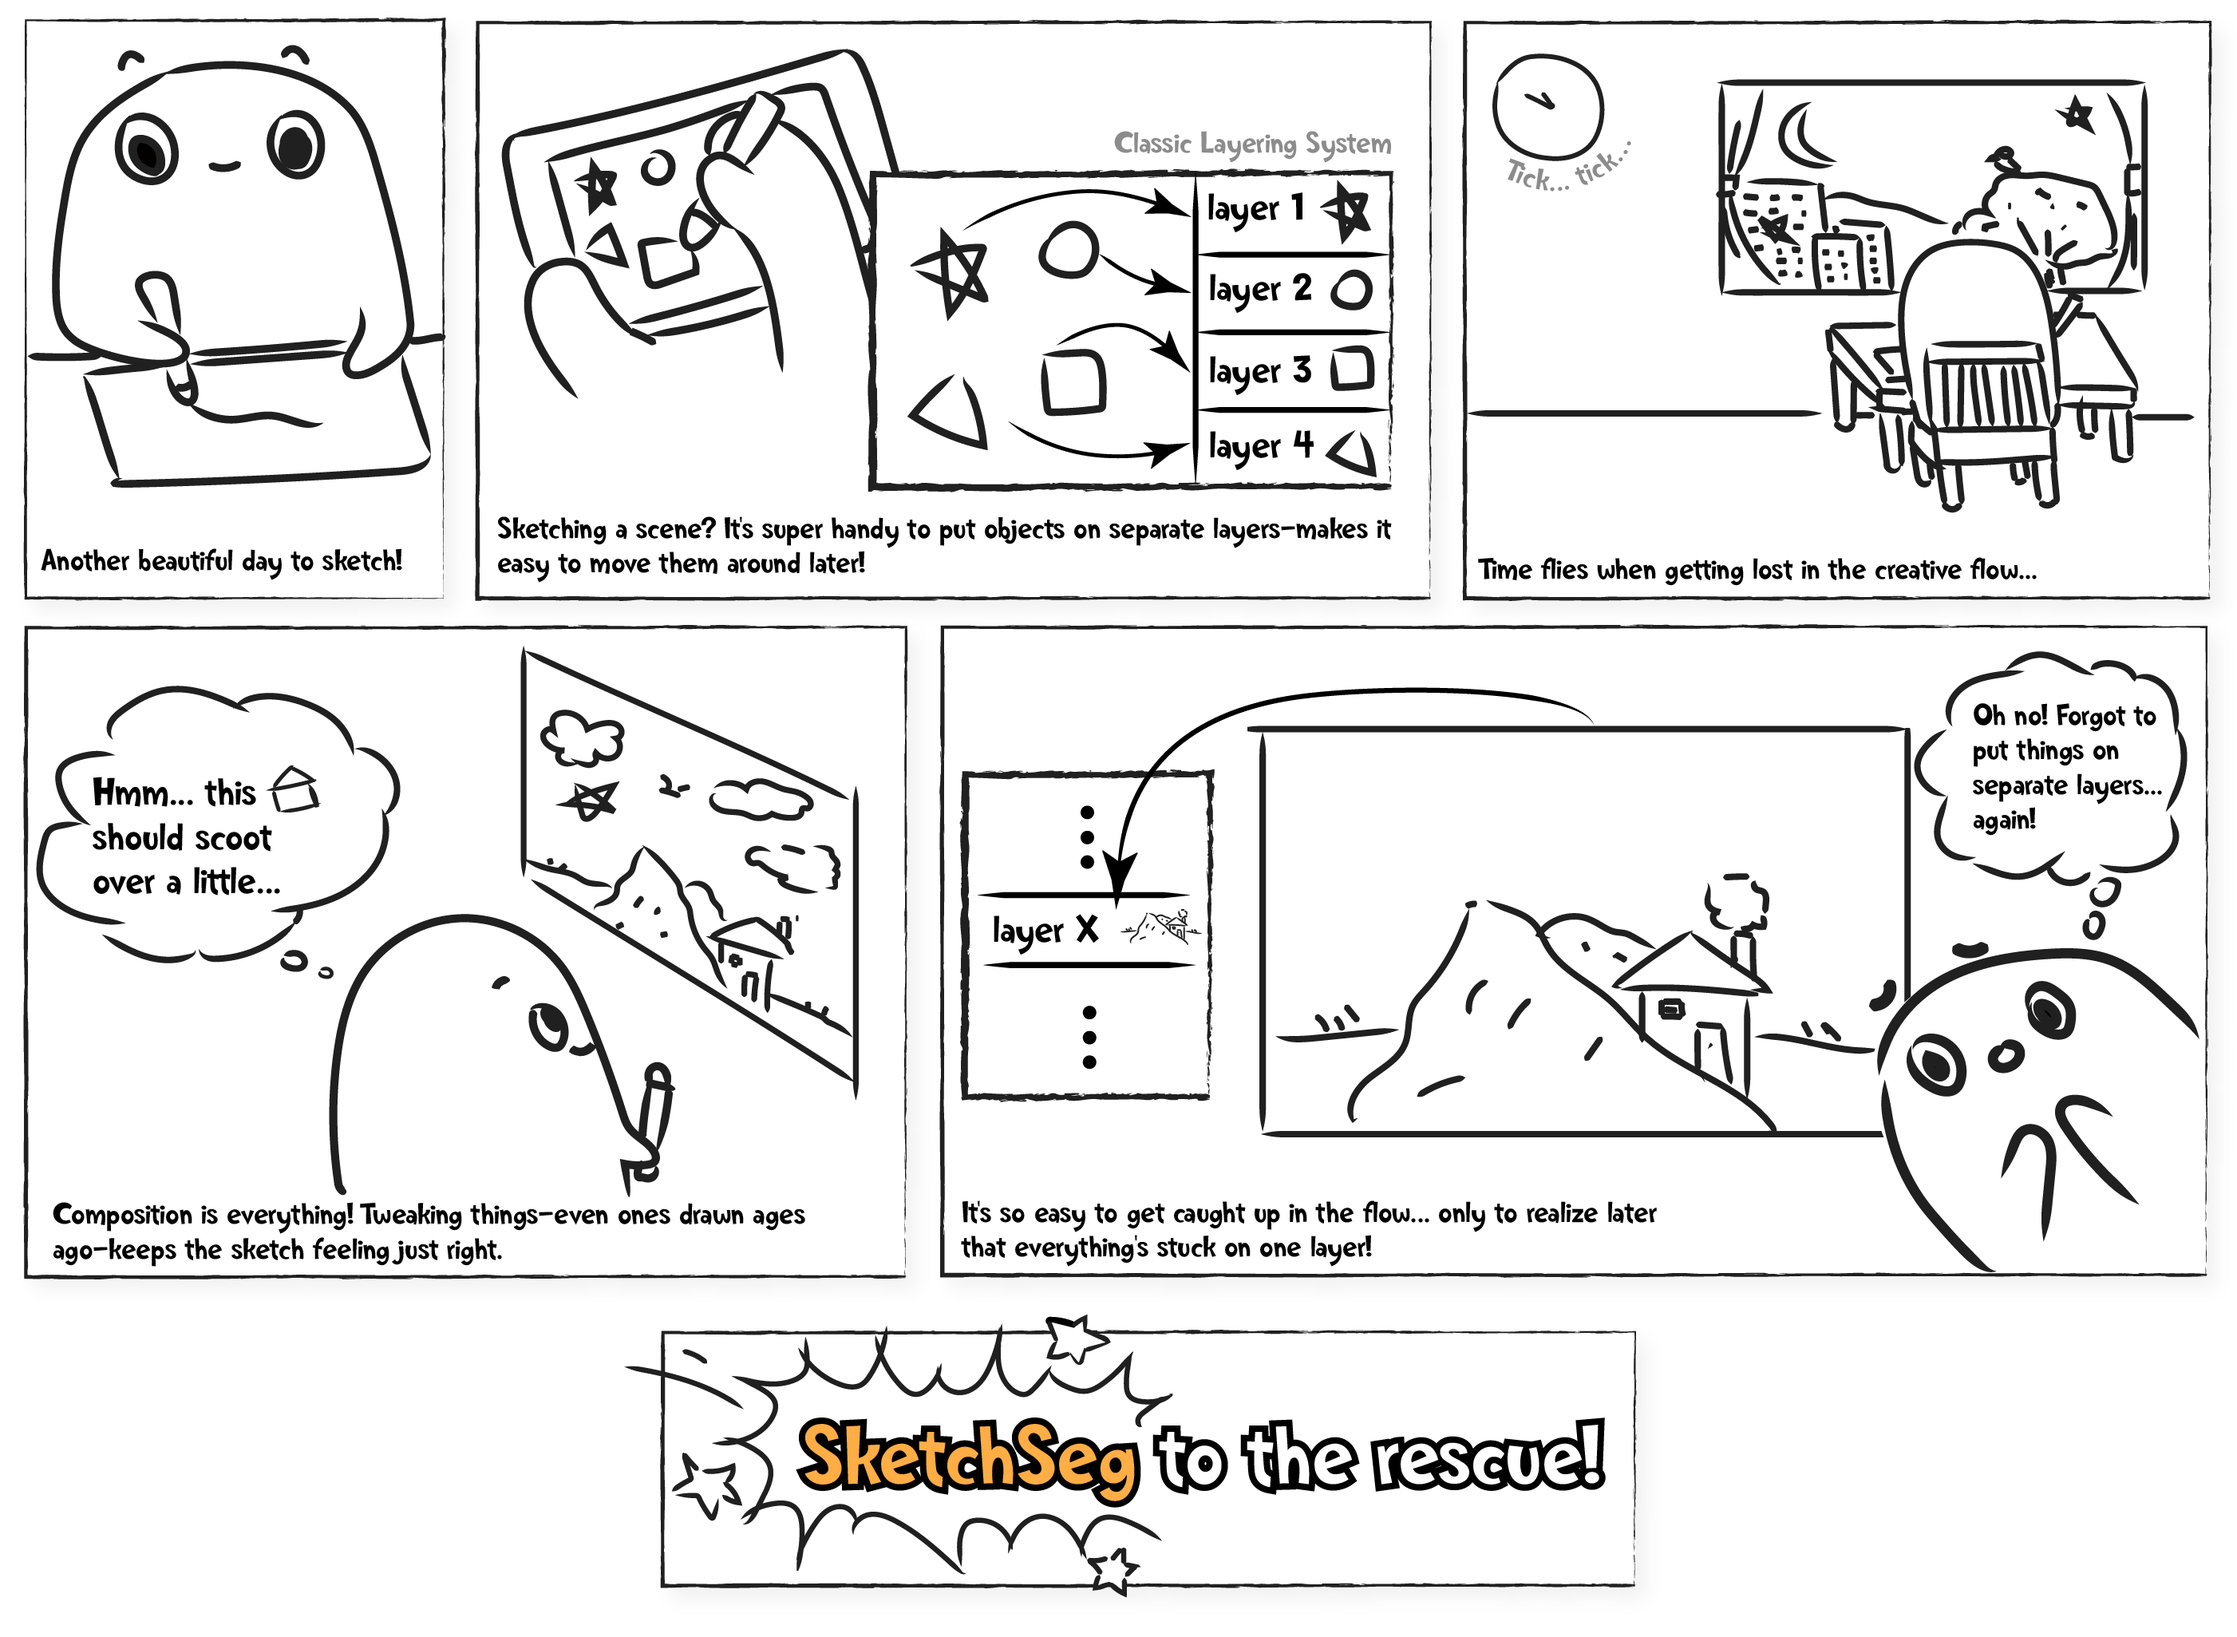
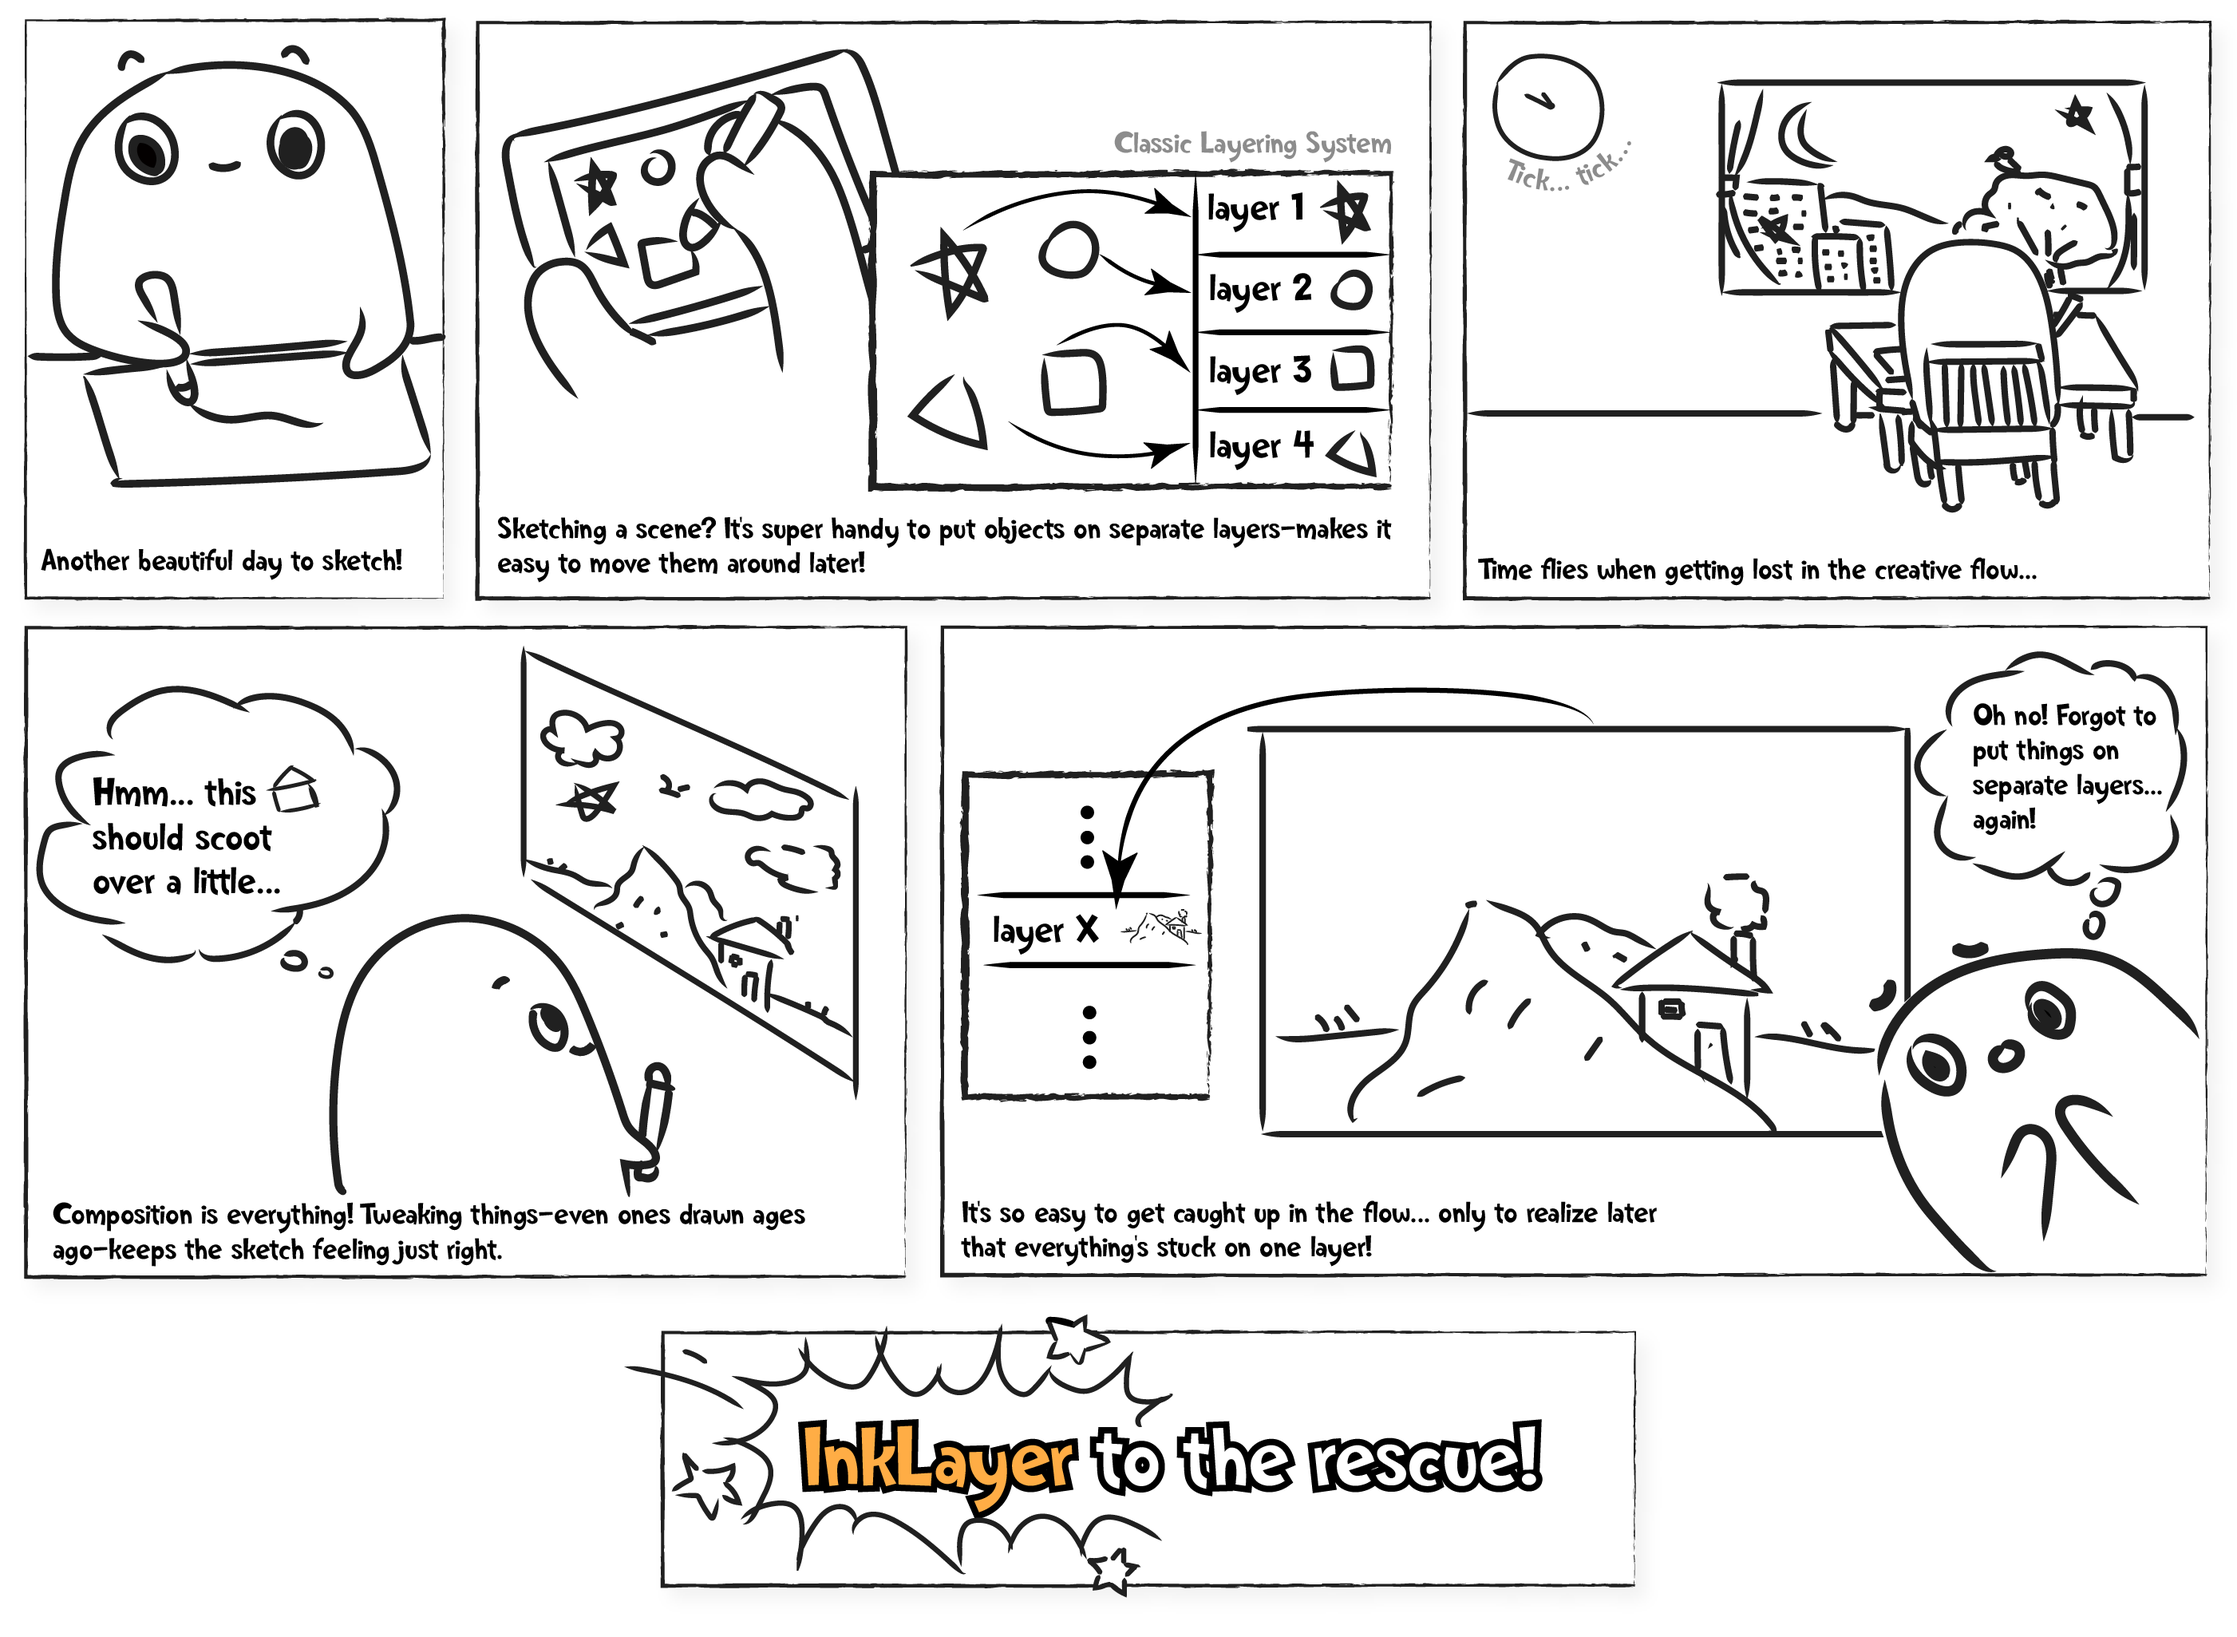
Add author info

Changed region(s): [[0.3414, 0.8425, 0.7139, 0.9361]]

diff --git a/index.html b/index.html
@@ -55,21 +55,46 @@
         <div class="columns is-centered">
           <div class="column has-text-centered">
             <h1 class="title is-1 publication-title">Instance Segmentation of Scene Sketches <br /> Using Natural Image Priors</h1>
-
-
             <div class="is-size-5 publication-authors">
-              <span class="author-block"> Anonymous Authors </span>
+              <span class="author-block">
+                <a href="https://mia-tang.com/" target="_blank">Mia Tang</a><sup>1</sup>,
+              </span>
+              <span class="author-block">
+                <a href="https://yael-vinker.github.io/website/" target="_blank"> Yael Vinker</a><sup>2</sup>,
+              </span>
+              <span class="author-block">
+                <a href="https://nauhcnay.github.io/" target="_blank"> Chuan Yan</a><sup>1</sup>,
+              </span>
+              <span class="author-block">
+                <a href="https://lllyasviel.github.io/Style2PaintsResearch/lvmin" target="_blank"> Lvmin Zhang</a><sup>1</sup>,
+              </span>
+              <span class="author-block">
+                <a href="https://graphics.stanford.edu/~maneesh/" target="_blank"> Maneesh Agrawala </a><sup>1</sup>
+              </span>
             </div>
+
+            <div class="is-size-6 publication-authors">
+              <span class="author-block"><sup>1</sup> Stanford University</span>
+            </div>
+            <div class="is-size-6 publication-authors">
+              <span class="author-block"><sup>2</sup> MIT CSAIL</span>
+            </div>
+
+            <div class="is-size-3 venue ">
+              <span class="is-bold">SIGGRAPH 2025</span>
+            </div>
+
+
 
             <div class="column has-text-centered">
               <div class="publication-links">
                 <!-- PDF Link. -->
                 <span class="link-block">
-                  <a href="./static/anonymous_paper_INKi.pdf" class="external-link button is-normal is-rounded" target="_blank">
+                  <a href="" class="external-link button is-normal is-rounded is-light cursor-not-allowed pointer-events-none" target="_blank">
                     <span class="icon">
                       <i class="fas fa-file-pdf"></i>
                     </span>
-                    <span>Paper</span>
+                    <span>Paper (Coming Soon) </span>
                   </a>
                 </span>
                 <!--                 <span class="link-block">
@@ -127,7 +152,7 @@
       <div class="hero-body place-items-center">
         <img src="./static/images/sketchseg_teaser_sm.png" alt="Banner Image" width="100%">
         <h2 class="subtitle has-text-centered mt-4">
-          <span class="dnerf">INKi</span> performs instance segmentation of raster sketches. <br /> It effectively handles diverse types of sketches, accommodating variations in stroke style and complexity.
+          <span class="dnerf">InkLayer</span> performs instance segmentation of raster sketches. <br /> It effectively handles diverse types of sketches, accommodating variations in stroke style and complexity.
         </h2>
       </div>
     </div>
@@ -162,7 +187,7 @@
             </p>
           </div>
         </div>
-        <img src="./static/images/INKi_motivation.png" alt="Banner Image" width="100%">
+        <img src="./static/images/motivation_comics.png" alt="Banner Image" width="100%">
 
       </div>
     </div>
@@ -174,7 +199,7 @@
     <div class="container is-max-desktop">
       <div class="columns is-centered has-text-centered">
         <div class="column is-four-fifths">
-          <h2 class="title is-3">What does <span class="dnerf">INKi</span> enable?</h2>
+          <h2 class="title is-3">What does <span class="dnerf">InkLayer</span> enable?</h2>
           <video poster="" id="meerkat" autoplay controls muted loop height="100%">
             <source src="./static/videos/meerkat_demo_no_audio.mp4" type="video/mp4">
           </video>
@@ -182,7 +207,7 @@
             <source src="./static/videos/toy_room_demo_no_audio.mp4" type="video/mp4">
           </video>
           <div class="content has-text-justified mt-4">
-            <p> <b> Interactive interface for sketch editing. </b><span class="dnerf">INKi</span>'s segmentation and layering technique makes sketch editing effortless. With our interactive interface, users can upload a sketch, which is automatically segmented into ordered layers. This allows artists to easily move, copy, or delete objects without needing to manually redraw affected areas—streamlining the editing process and giving more control over their compositions..
+            <p> <b> Interactive interface for sketch editing. </b><span class="dnerf">InkLayer</span>'s segmentation and layering technique makes sketch editing effortless. With our interactive interface, users can upload a sketch, which is automatically segmented into ordered layers. This allows artists to easily move, copy, or delete objects without needing to manually redraw affected areas—streamlining the editing process and giving more control over their compositions..
             </p>
           </div>
 
@@ -193,7 +218,7 @@
   <!-- Handshake -->
   <section class="section">
     <div class="container is-max-desktop">
-      <img src="./static/images/INKi_intro.png" alt="Banner Image" width="100%">
+      <img src="./static/images/thankful_handshake.png" alt="Banner Image" width="100%">
     </div>
   </section>
 
@@ -202,13 +227,13 @@
     <div class="container is-max-desktop">
       <div class="columns is-centered has-text-centered">
         <div class="column is-four-fifths">
-          <h2 class="title is-3">What can <span class="dnerf">INKi</span> do?</h2>
+          <h2 class="title is-3">What can <span class="dnerf">InkLayer</span> do?</h2>
           <div class="content has-text-justified mt-4">
-            <p> We present instance segmentation results achieved by <span class="dnerf">INKi</span> across various stroke styles, demonstrating its robustness in handing varied styles and complexity. </p>
+            <p> We present instance segmentation results achieved by <span class="dnerf">InkLayer</span> across various stroke styles, demonstrating its robustness in handing varied styles and complexity. </p>
           </div>
 
           <!-- Our Sketches -->
-          <h2 class="title is-4"><span class="dnerf">INKi</span> on Real-World Sketches</h2>
+          <h2 class="title is-4"><span class="dnerf">InkLayer</span> on Real-World Sketches</h2>
           <div id="results-carousel" class="carousel results-carousel" data-slides-to-show="1">
             <div class="carousel-slide">
               <img src="static/images/results/real_world/result_0.png" alt="results 0">
@@ -231,7 +256,7 @@
           <hr class="my-4" />
 
           <!-- Dataset Sketches -->
-          <h2 class="title is-4"><span class="dnerf">INKi</span> on Dataset Sketches</h2>
+          <h2 class="title is-4"><span class="dnerf">InkLayer</span> on Dataset Sketches</h2>
           <div id="results-carousel" class="carousel results-carousel" data-slides-to-show="1">
             <div class="carousel-slide">
               <img src="static/images/results/dataset/result_0.png" alt="results 0">
@@ -257,7 +282,7 @@
     <div class="container is-max-desktop">
       <div class="columns is-centered has-text-centered">
         <div class="column is-four-fifths">
-          <h2 class="title is-3">How does <span class="dnerf">INKi</span> work?</h2>
+          <h2 class="title is-3">How does <span class="dnerf">InkLayer</span> work?</h2>
           <div class="content has-text-justified mt-4">
             <p class="font-bold">✴ Given a raster sketch, our goal is to produce a segmentation map such that pixels belonging to the same object instance are grouped together. Based on the segmentation map, we also divide the sketch into layers, sorted by depth. </p>
           </div>
